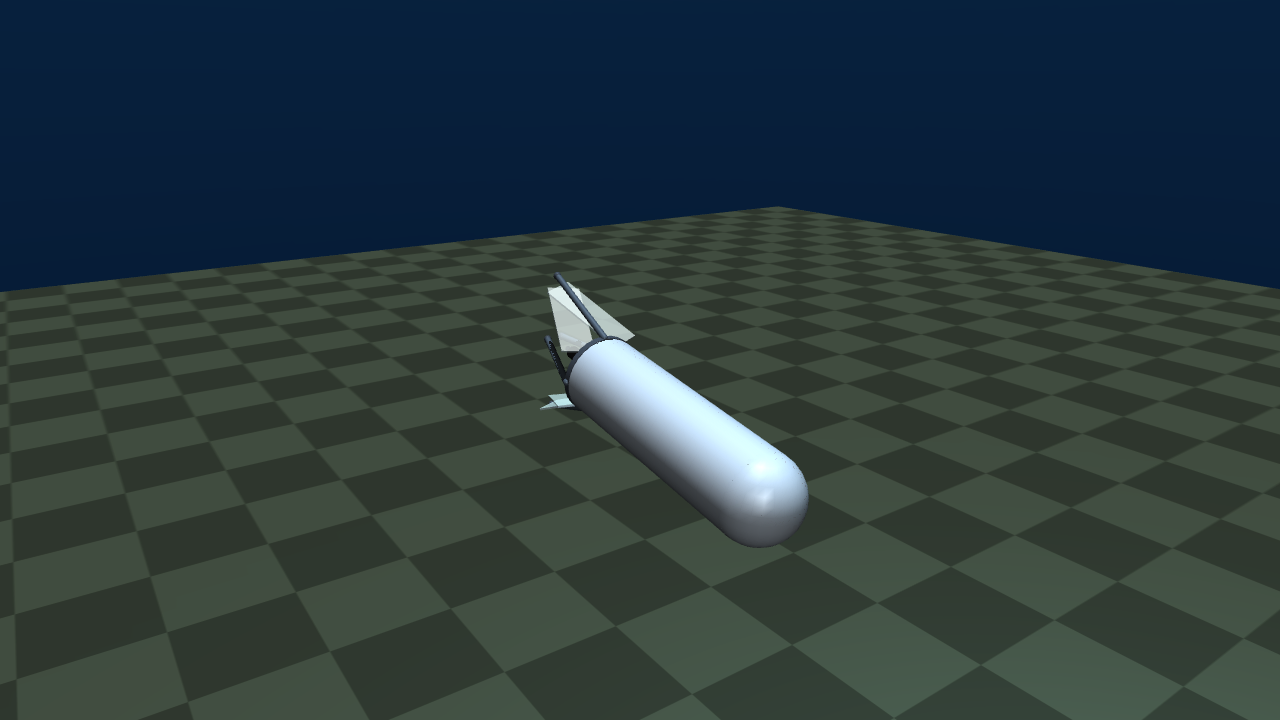
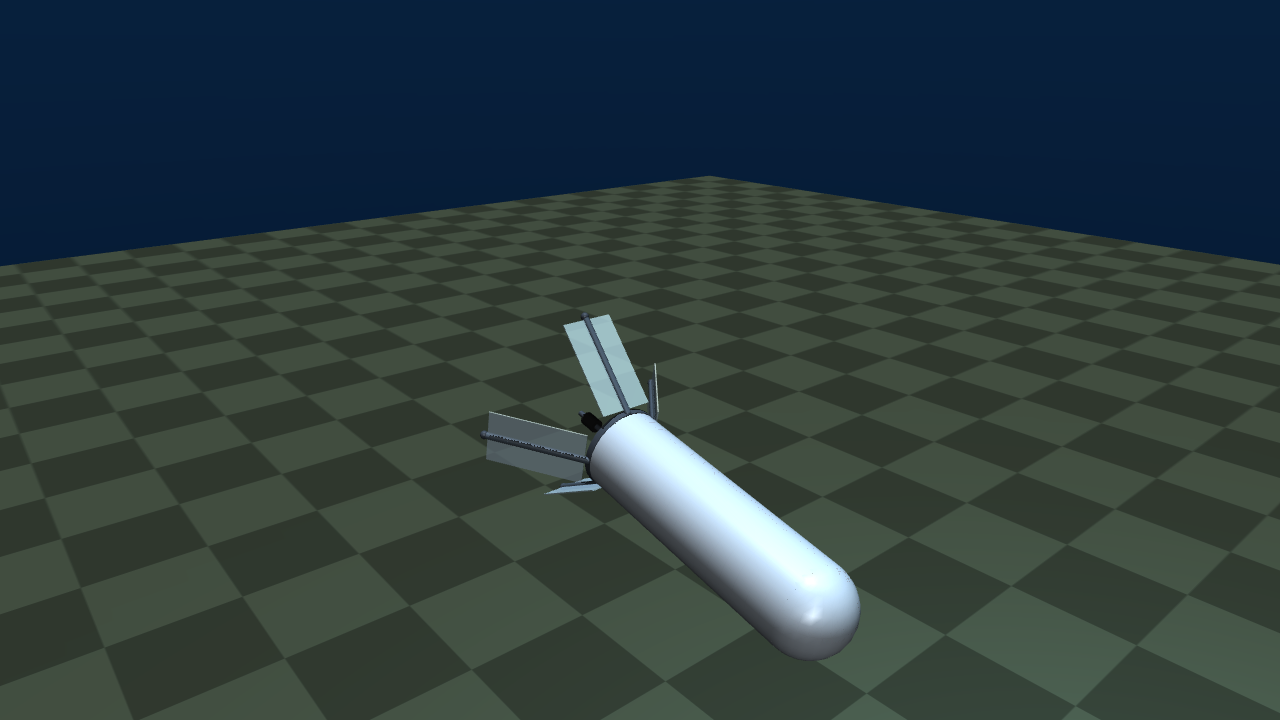
legs操作可能

diff --git a/scripts/view_mujoco.py b/scripts/view_mujoco.py
@@ -1,12 +1,26 @@
 """
 Interactive MuJoCo 3D Viewer for QuadKen AUV.
-Run this script to open the native MuJoCo GUI, manipulate legs, thrusters, and ballast in real-time.
+
+Controls:
+  - Space: Pause / Resume simulation
+  - Backspace: Reset simulation
+  - 'A' key (in terminal) or argument: Toggle automatic demo animation ON/OFF
+  - Right Click + Drag: Rotate 3D Camera
+  - Scroll Wheel: Zoom
+  - Ctrl + Right Click: Pan Camera
 
 Usage:
+  # Manual control mode (Use GUI sliders on the right panel to move legs/thrusters):
   uv run python scripts/view_mujoco.py
+
+  # Automatic animation demo mode:
+  uv run python scripts/view_mujoco.py --demo
 """
 
+import sys
 import time
+import math
+import argparse
 import mujoco
 import mujoco.viewer
 
@@ -14,18 +28,30 @@ MODEL_PATH = "assets/quadken.xml"
 
 
 def main():
-    print(f"Loading MuJoCo model from: {MODEL_PATH}")
+    parser = argparse.ArgumentParser(description="QuadKen AUV MuJoCo Viewer")
+    parser.add_argument(
+        "--demo",
+        action="store_true",
+        help="Enable automatic opening/closing demo animation (default: False for manual slider control)",
+    )
+    args = parser.parse_args()
+
+    print("=" * 60)
+    print("      QuadKen AUV - MuJoCo Interactive 3D Viewer")
+    print("=" * 60)
+    print(f"Loading model: {MODEL_PATH}")
     model = mujoco.MjModel.from_xml_path(MODEL_PATH)
     data = mujoco.MjData(model)
 
-    print("Launching MuJoCo Native Viewer...")
-    print("Controls:")
-    print("  - Space: Pause / Resume simulation")
-    print("  - Backspace: Reset simulation")
-    print("  - Right Click + Drag: Rotate 3D Camera")
-    print("  - Scroll Wheel: Zoom")
-    print("  - Ctrl + Right Click: Pan Camera")
-    print("  - Double Left Click on geom + Ctrl + Right Click: Apply 3D force/drag to robot")
+    auto_animate = args.demo
+    mode_str = "AUTO DEMO ANIMATION" if auto_animate else "MANUAL CONTROL (Use GUI Sliders)"
+    print(f"Current Mode: {mode_str}")
+    print("\nTips:")
+    print("  - [Spacebar]: Pause / Resume physics")
+    print("  - To control actuators manually, open the right 'Control' panel in the viewer window.")
+    print("  - Units note: 1.0 on slider = 1 radian (~57.3 deg). 1.57 = 90 deg.")
+    if not auto_animate:
+        print("  - Run with '--demo' to see automated leg deployment.")
 
     with mujoco.viewer.launch_passive(model, data) as viewer:
         start_time = time.time()
@@ -33,11 +59,16 @@ def main():
             step_start = time.time()
             t = step_start - start_time
 
-            # Example: Gently oscillate legs and thrust for demonstration
-            # Actuator 0, 1: BLDC Thrusters
-            # Actuator 2..5: Legs (Top, Right, Bottom, Left)
-            # Actuator 6..9: Head Ballast Servos
-            
+            if auto_animate:
+                # Oscillate legs 0 to 60 deg (0 to ~1.05 rad)
+                cycle_angle_deg = 30.0 + 30.0 * math.sin(t * 1.5)
+                cycle_angle_rad = math.radians(cycle_angle_deg)
+                for i in range(2, 6):
+                    data.ctrl[i] = cycle_angle_rad
+                # Forward thrust
+                data.ctrl[0] = 5.0
+                data.ctrl[1] = 5.0
+
             # Step physics
             mujoco.mj_step(model, data)
 
